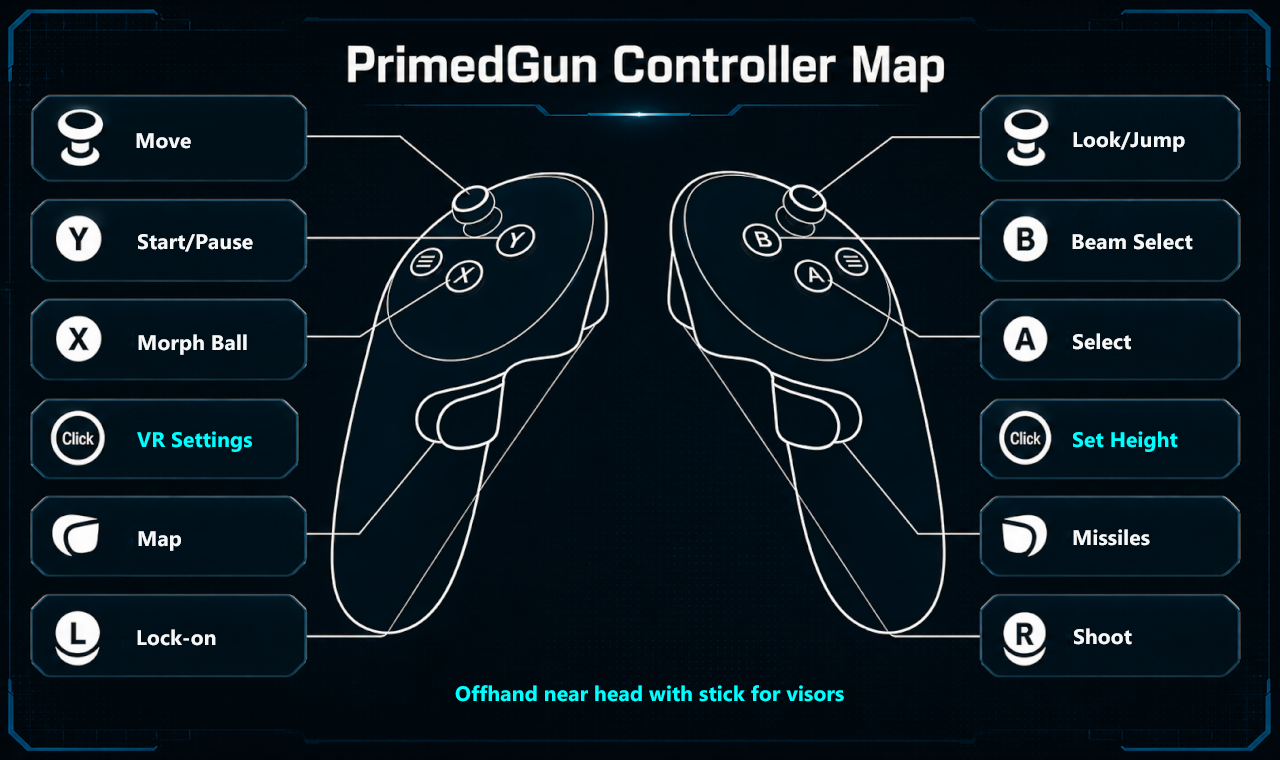
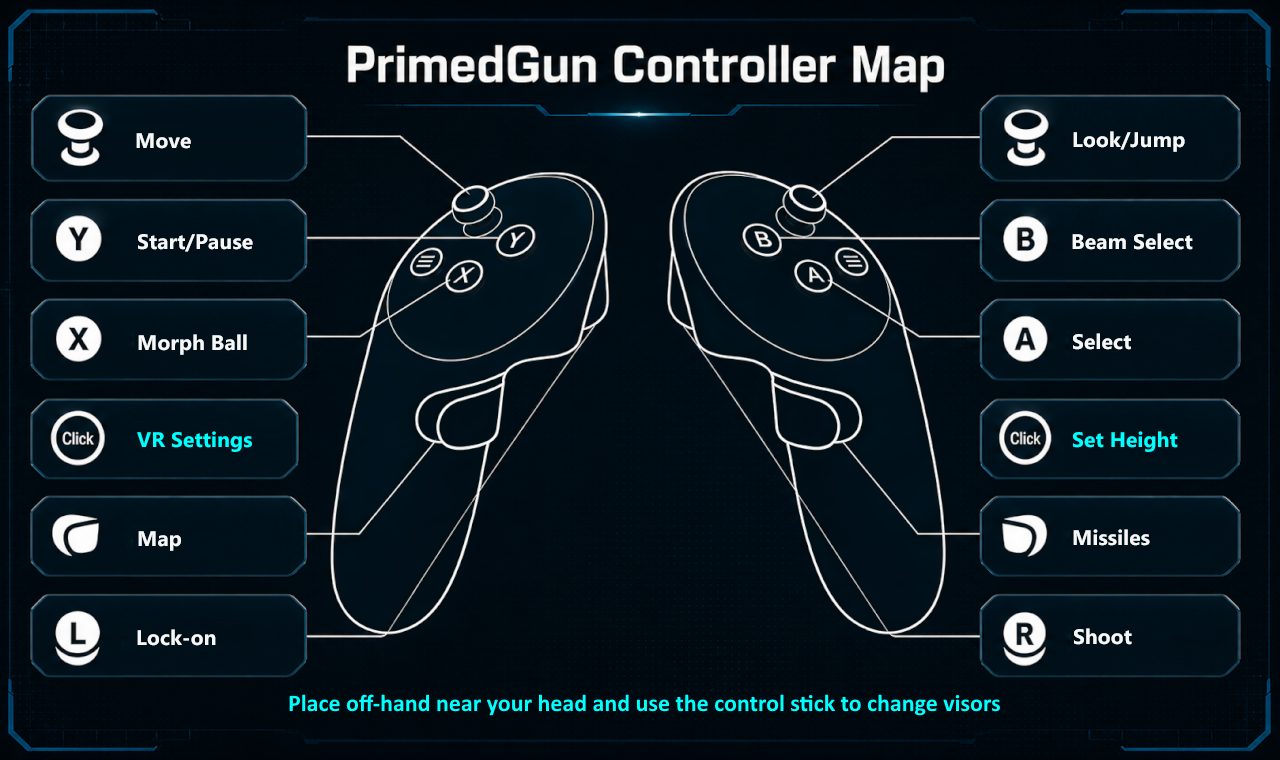
Update left handed controls

Changed region(s): [[0.2188, 0.9079, 0.7812, 0.9382]]

diff --git a/Source/Core/Core/HW/GCPadEmu.cpp b/Source/Core/Core/HW/GCPadEmu.cpp
@@ -514,7 +514,16 @@ static bool ApplyPrimeGunModernControls(GCPadStatus* pad)
   if (!left.connected && !right.connected)
     return false;
 
+  auto game_left = left;
   auto game_right = right;
+  if (!overlay.use_right_hand)
+  {
+    std::swap(game_left.trigger_button, game_right.trigger_button);
+    std::swap(game_left.trigger_value, game_right.trigger_value);
+    std::swap(game_left.squeeze_button, game_right.squeeze_button);
+    std::swap(game_left.squeeze_value, game_right.squeeze_value);
+  }
+
   if (overlay.menu_visible)
   {
     game_right.primary_button = false;
@@ -564,8 +573,7 @@ static bool ApplyPrimeGunModernControls(GCPadStatus* pad)
 
   if (!gameplay)
   {
-    ApplyPrimeGunClassicMenuControls(left, game_right, pad, suppress_left_stick,
-                                     false);
+    ApplyPrimeGunClassicMenuControls(game_left, game_right, pad, suppress_left_stick, false);
     if (pad->button & PAD_BUTTON_A)
       pad->analogA = 0xFF;
     if (pad->button & PAD_BUTTON_B)
@@ -573,7 +581,8 @@ static bool ApplyPrimeGunModernControls(GCPadStatus* pad)
     return true;
   }
 
-  const bool weapon_modifier = game_right.connected && game_right.secondary_button;
+  auto& weapon_hand = overlay.use_right_hand ? game_right : game_left;
+  const bool weapon_modifier = weapon_hand.connected && weapon_hand.secondary_button;
   const bool fire_pressed = game_right.connected && game_right.trigger_button;
   constexpr float stick_button_threshold = 0.55f;
 
@@ -589,27 +598,27 @@ static bool ApplyPrimeGunModernControls(GCPadStatus* pad)
           PrimeGunAxisToPadByte(left.thumbstick_y, GCPadStatus::MAIN_STICK_CENTER_Y) :
                        GCPadStatus::MAIN_STICK_CENTER_Y;
 
-  if (weapon_modifier && game_right.connected)
+  if (weapon_modifier && weapon_hand.connected)
   {
-    UpdatePrimeGunWeaponSelect(game_right, pad);
+    UpdatePrimeGunWeaponSelect(weapon_hand, pad);
   }
   else
   {
     pad->substickX = GCPadStatus::C_STICK_CENTER_X;
     pad->substickY = GCPadStatus::C_STICK_CENTER_Y;
-    if (game_right.connected)
-      UpdatePrimeGunWeaponSelect(game_right, pad);
+    if (weapon_hand.connected)
+      UpdatePrimeGunWeaponSelect(weapon_hand, pad);
   }
 
-  if (left.connected)
+  if (game_left.connected)
   {
-    if (left.primary_button)
+    if (game_left.primary_button)
       pad->button |= PAD_BUTTON_X;
-    if (left.secondary_button && !left_vr_menu_button)
+    if (game_left.secondary_button && !left_vr_menu_button && !weapon_modifier)
       pad->button |= PAD_BUTTON_START;
-    if (left.squeeze_button)
+    if (game_left.squeeze_button)
       pad->button |= PAD_TRIGGER_Z;
-    if (left.trigger_button)
+    if (game_left.trigger_button)
     {
       pad->button |= PAD_TRIGGER_L;
       pad->triggerLeft = 0xFF;
@@ -620,6 +629,8 @@ static bool ApplyPrimeGunModernControls(GCPadStatus* pad)
   {
     if ((!gameplay && game_right.primary_button) || fire_pressed)
       pad->button |= PAD_BUTTON_A;
+    if (!overlay.use_right_hand && game_right.secondary_button)
+      pad->button |= PAD_BUTTON_START;
     if (game_right.squeeze_button)
       pad->button |= PAD_BUTTON_Y;
     if (!weapon_modifier && game_right.thumbstick_y > stick_button_threshold)

diff --git a/Source/Core/Core/PrimeGun/NativeRuntime.cpp b/Source/Core/Core/PrimeGun/NativeRuntime.cpp
@@ -1564,16 +1564,17 @@ void UpdateXrDpad(const Core::CPUThreadGuard& guard,
     return;
   }
 
-  const Common::VR::OpenXRControllerState& left = snapshot.controllers[0];
-  if (!left.connected || !left.aim_pose.valid || !snapshot.head_pose.valid)
+  const Common::VR::OpenXRControllerState& dpad_hand =
+      snapshot.controllers[settings.use_right_hand ? 0 : 1];
+  if (!dpad_hand.connected || !dpad_hand.aim_pose.valid || !snapshot.head_pose.valid)
   {
     disarm();
     return;
   }
 
-  const Pose left_pose = PoseFromOpenXR(left.aim_pose);
+  const Pose hand_pose = PoseFromOpenXR(dpad_hand.aim_pose);
   const Pose hmd_pose = PoseFromOpenXR(snapshot.head_pose);
-  bool in_head_zone = LeftControllerNearHead(left_pose, hmd_pose, settings);
+  bool in_head_zone = LeftControllerNearHead(hand_pose, hmd_pose, settings);
   if (in_head_zone)
   {
     s_last_near_head_frame = s_frame_counter;
@@ -1589,7 +1590,7 @@ void UpdateXrDpad(const Core::CPUThreadGuard& guard,
   }
 
   const float deadzone = std::min(settings.xr_dpad_deadzone, 0.25f);
-  DpadDir dir = StickToDpad(left.thumbstick_x, left.thumbstick_y, deadzone, s_last_dir);
+  DpadDir dir = StickToDpad(dpad_hand.thumbstick_x, dpad_hand.thumbstick_y, deadzone, s_last_dir);
   if (dir != DpadNone)
   {
     s_latched_dir = dir;
@@ -1696,7 +1697,10 @@ void UpdateDirectionalMovement(const Core::CPUThreadGuard& guard,
 
   const Pose move_pose = PoseFromOpenXR(controller.aim_pose);
   const Pose hmd_pose = PoseFromOpenXR(snapshot.head_pose);
-  if (LeftControllerNearHead(move_pose, hmd_pose, settings))
+  const Common::VR::OpenXRControllerState& dpad_hand =
+      snapshot.controllers[settings.use_right_hand ? 0 : 1];
+  if (dpad_hand.connected && dpad_hand.aim_pose.valid &&
+      LeftControllerNearHead(PoseFromOpenXR(dpad_hand.aim_pose), hmd_pose, settings))
   {
     s_directional_move_speed = 0.0f;
     return;